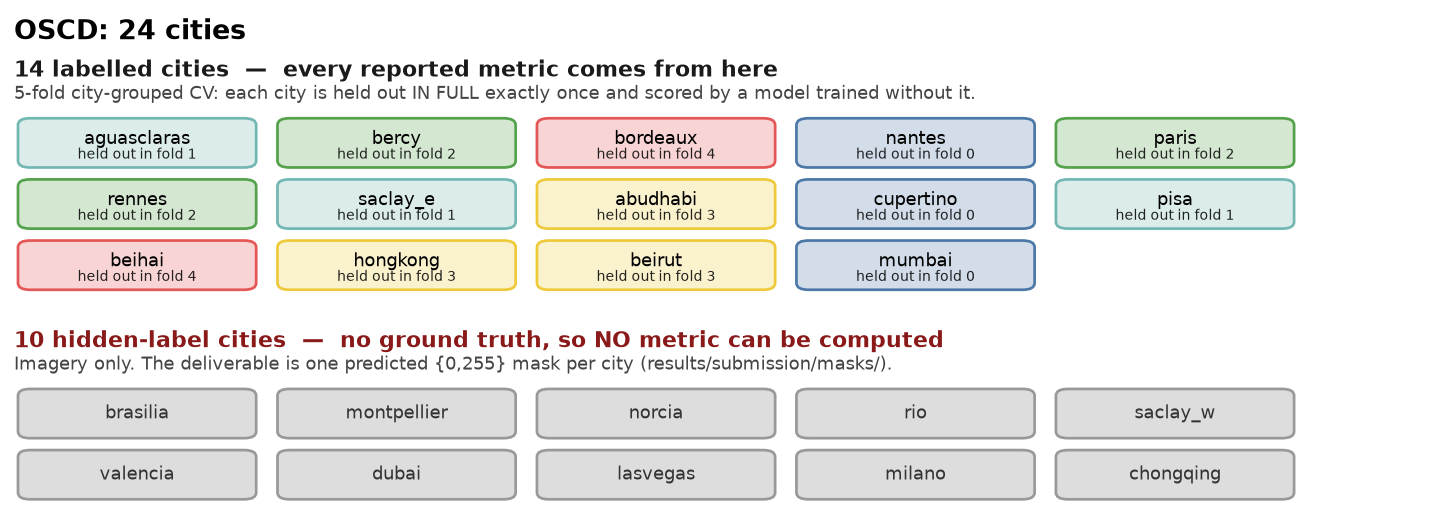
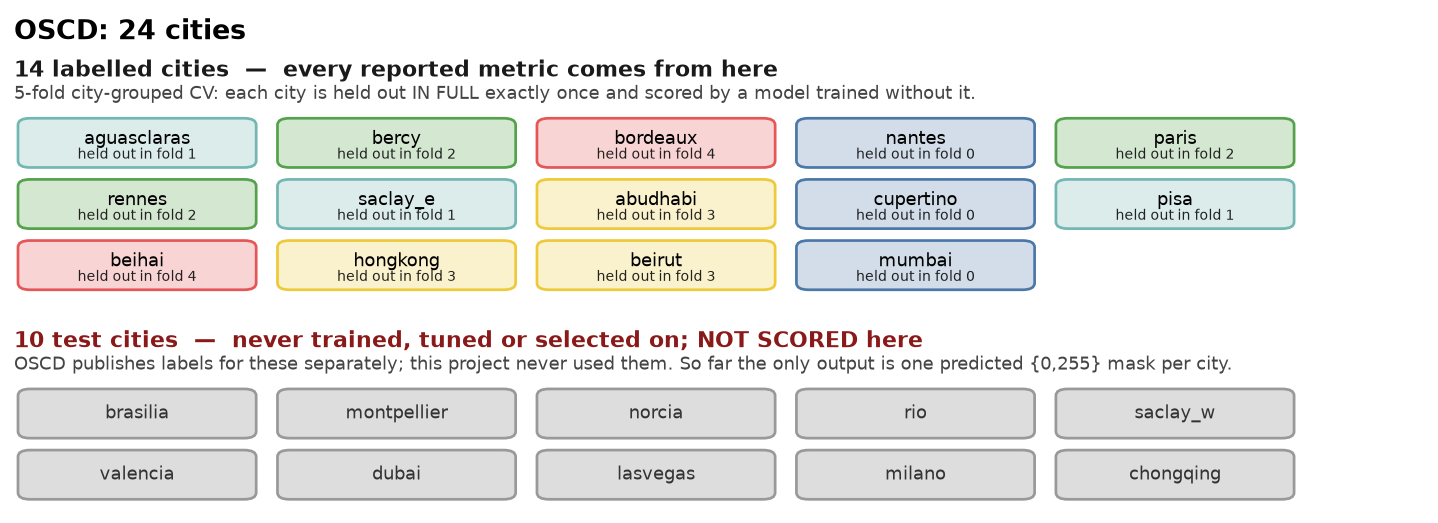
docs: correct the test-label premise — the 10 cities are unscored, not unscorable
The repo asserted throughout that the 10 OSCD test cities have no ground truth.
That is wrong: OSCD distributes the test labels as a separate archive alongside
the train labels (the dataset page offers both; torchgeo's OSCD loader exposes a
test split with masks). This project simply never downloaded them —
preprocess._load_label only ever resolves ".. - Train Labels", and no code path
here references test labels at all.

The distinction matters for how the results read. Nothing is trained, tuned or
selected on the 10 cities, so the 14-city leave-city-out CV remains the correct
basis for choosing between architectures. But a test-set number is missing work,
not an impossibility, and the docs presented it as the latter.

- data/splits.py, submit/final_pipeline.py, train/*.py: comments and docstrings
  restated as "never downloaded/used here" rather than "no ground truth".
- city_split.png: "no ground truth, so NO metric can be computed" ->
  "never trained, tuned or selected on; NOT SCORED here", with the reason.
- hidden_city_evaluation.md: retitled, opens with the correction and the sources,
  and frames scoring the 10 as outstanding work with the download step included.
- README, RESULTS_SUMMARY, QML_POSTER_README: same correction at each place the
  claim appeared.

Changed region(s): [[0.0, 0.6119, 0.8567, 0.7342]]

diff --git a/train/compare_heldout_cities.py b/train/compare_heldout_cities.py
@@ -2,9 +2,9 @@
 train/compare_heldout_cities.py — per-city, model-vs-model comparison on the
 cities each model never saw.
 
-Why this exists: the 10 OSCD test cities carry no ground truth (see
-`data/splits.py`, `TEST_CITIES`: predict-only), so no metric can be computed on
-them locally. The only labelled cross-city evidence is the 5-fold *city-grouped*
+Why this exists: the 10 OSCD test cities have never been scored in this project
+(OSCD publishes their labels separately; they were never downloaded or used
+here), so all cross-city evidence to date is the 5-fold *city-grouped*
 CV over the 14 labelled cities: every city is held out exactly once, and the
 model that scores it was trained without it. That is a leave-city-out
 comparison, not an in-sample one — it answers "which circuit generalizes to an
@@ -109,11 +109,13 @@ def write_report(cells, folds, depths, metric, path):
     A("Generated by [`train/compare_heldout_cities.py`](../train/compare_heldout_cities.py) "
       "from the committed fold results in `results/runs/p3_topology/`.\n")
     A("## What is being compared, and on which cities\n")
-    A("The 10 OSCD **test** cities have no ground truth (`data/splits.py` — "
-      "`TEST_CITIES`, predict-only), so no accuracy number can be computed on them "
-      "here; the deliverable for those is a predicted mask per city. Every metric "
-      "below is on a **held-out city**: 5-fold city-grouped CV over the 14 labelled "
-      "cities, each city held out exactly once and scored by a model trained "
+    A("The 10 OSCD **test** cities have **not been scored** in this project — their "
+      "labels are published separately by OSCD and were never downloaded or used "
+      "here, so the only output for them is a predicted mask per city. Evaluating "
+      "them is outstanding work (see [`hidden_city_evaluation.md`]"
+      "(hidden_city_evaluation.md)). Every metric below is therefore on a "
+      "**held-out city** from the labelled set: 5-fold city-grouped CV over the 14 "
+      "labelled cities, each held out exactly once and scored by a model trained "
       "without it.\n")
     A("The comparison is paired — identical fold assignment, identical "
       "initialisation and identical training patch stream across models, so the "

diff --git a/submit/final_pipeline.py b/submit/final_pipeline.py
@@ -9,16 +9,16 @@ Three stages, runnable separately so nothing here waits on the experiments:
              out-of-fold choice — the threshold never sees the hidden test set.
   train      refit the transforms on ALL 14 labelled cities and train the chosen
              architecture on them with the frozen protocol.
-  predict    run the final model over the 10 hidden-label cities and write the
+  predict    run the final model over the 10 test cities and write the
              deliverable: a pixel-aligned uint8 {0,255} PNG per city, plus the
              probability map per city (needed later for any threshold-free
              metric — see train/score_hidden_cities.py). Masks go to
              results/submission/masks_<kind>_L<depth>/, so running a comparison
              architecture cannot overwrite the frozen submission in masks/.
 
-The 10 test cities have imagery but no labels, so `dcorr13_unlabeled` mirrors
-preprocess.build_dcorr13 while taking the raster shape from the image instead of
-the label. The per-pair median correction is label-free and per-image, so it
+This pipeline never reads test-city labels (OSCD ships them separately and they
+are unused here), so `dcorr13_unlabeled` mirrors preprocess.build_dcorr13 while
+taking the raster shape from the image instead of the label. The per-pair median correction is label-free and per-image, so it
 applies to the test cities exactly as it does in training.
 
 Leakage discipline: tau* comes from out-of-fold predictions only, and is FROZEN
@@ -54,7 +54,7 @@ SWEEP = os.path.join(ROOT, "results", "runs", "p3_topology")
 
 # --------------------------------------------------------------------------- #
 def dcorr13_unlabeled(city, raw_root, band_stats):
-    """|dB^corr|_13 for a city with no ground truth (shape taken from imagery)."""
+    """|dB^corr|_13 without reading any label (shape taken from imagery)."""
     t1 = pre._load_bands(raw_root, city, "imgs_1_rect")
     t2 = pre._load_bands(raw_root, city, "imgs_2_rect")
     H = min(t1.shape[0], t2.shape[0]); W = min(t1.shape[1], t2.shape[1])

diff --git a/train/plot_heldout_comparison.py b/train/plot_heldout_comparison.py
@@ -4,7 +4,7 @@ these numbers on, and is the model comparison fair?"
 
   city_split.png              the 24-city split: 14 labelled cities that every
                               metric comes from (coloured by CV fold), 10
-                              hidden-label cities that can only be predicted.
+                              test cities, which this project has never scored.
   heldout_city_comparison.png M1 vs M2 vs M_ring on each of the 14 held-out
                               cities, plus the paired per-city differences.
 
@@ -81,10 +81,10 @@ def fig_city_split(fold_of, path):
              FOLD_COLORS[f], sub=f"held out in fold {f}")
 
     # --- hidden -------------------------------------------------------------
-    ax.text(0, 1.72, "10 hidden-label cities  —  no ground truth, so NO metric can be computed",
+    ax.text(0, 1.72, "10 test cities  —  never trained, tuned or selected on; NOT SCORED here",
             fontsize=11.5, fontweight="bold", color="#8a1a1a")
-    ax.text(0, 1.42, "Imagery only. The deliverable is one predicted {0,255} mask per city "
-                     "(results/submission/masks/).",
+    ax.text(0, 1.42, "OSCD publishes labels for these separately; this project never used them. "
+                     "So far the only output is one predicted {0,255} mask per city.",
             fontsize=9.2, color="#444")
     for i, c in enumerate(TEST_CITIES):
         r, k = divmod(i, 5)

diff --git a/train/score_hidden_cities.py b/train/score_hidden_cities.py
@@ -1,13 +1,13 @@
 """
-train/score_hidden_cities.py — score the 10 hidden-label OSCD cities, the moment
-their ground truth is available.
+train/score_hidden_cities.py — score the 10 OSCD test cities.
 
-The 10 test cities are predict-only in this repo (`data/splits.py`,
-`TEST_CITIES`): the pipeline writes a mask per city and stops, because no labels
-ship with them. If the organisers release the test labels (or OSCD's separately
-distributed test-label archive is permitted for the challenge), this script turns
-those masks into the same metric table the 14 labelled cities get — per city,
-macro over cities, and pooled over all test pixels.
+They are predict-only in this repo (`data/splits.py`, `TEST_CITIES`): the
+pipeline writes a mask per city and stops. That is a gap in this project, not a
+property of the dataset — OSCD distributes the test labels as a separate archive
+alongside the train labels; they were simply never downloaded here. Point
+`--label_root` at that archive and this script turns the predicted masks into the
+same metric table the 14 labelled cities get — per city, macro over cities, and
+pooled over all test pixels.
 
     python train/score_hidden_cities.py \
         --label_root /path/to/OSCD_test_labels \

diff --git a/data/splits.py b/data/splits.py
@@ -7,7 +7,9 @@ import numpy as np
 TRAIN_CITIES = ["aguasclaras","bercy","bordeaux","nantes","paris","rennes","saclay_e",
                 "abudhabi","cupertino","pisa","beihai","hongkong","beirut","mumbai"]
 
-# 10 hidden-label test cities (used only in final mode, predict-only).
+# 10 OSCD test cities. Their labels are published separately by OSCD but were
+# never downloaded or used in this project, so nothing here is trained, tuned or
+# selected on them; final mode only predicts over them.
 TEST_CITIES = ["brasilia","montpellier","norcia","rio","saclay_w","valencia",
                "dubai","lasvegas","milano","chongqing"]
 

diff --git a/docs/hidden_city_evaluation.md b/docs/hidden_city_evaluation.md
@@ -1,11 +1,23 @@
-# Evaluating on the 10 hidden cities — what is possible, and what it costs
+# Evaluating on the 10 test cities — outstanding work
 
 Raised in review: *"the 5-fold CV is over the training cities only — isn't the
 point of the 10 validation cities to compare the two models on them? The results
 section only reports the 14."*
 
-Both halves of the observation are correct. This note says what the repo can and
-cannot do about it, and what each option needs.
+**The review is right, and the answer is yes: we should evaluate on the 10, and
+have not.** An earlier version of this note claimed their ground truth was
+withheld. That was wrong — **OSCD publishes labels for the test cities**, as a
+separate download alongside the train labels
+([dataset page](https://rcdaudt.github.io/oscd/); `torchgeo`'s OSCD loader
+exposes a `test` split with masks). This project simply never downloaded or used
+them: `data/preprocess.py` only ever resolves
+`train_labels/… - Train Labels`, and no code path in the repo references test
+labels at all.
+
+So the 10 cities are unscored, not unscorable. Nothing in the project is trained,
+tuned or selected on them — which is why the model selection below stands on its
+own — but a test-set number is genuinely missing and this note says what it takes
+to produce one.
 
 ---
 
@@ -13,19 +25,12 @@ cannot do about it, and what each option needs.
 
 ![the 24-city split](../results/p3_matrix/city_split.png)
 
-| | cities | labels | role here |
+| | cities | labels used here | role here |
 |---|---|---|---|
 | train | 14 | yes | transform fitting, training, 5-fold city-grouped CV, threshold choice |
-| test | 10 | **no** | predict-only — the deliverable is one mask per city |
+| test | 10 | **no — never downloaded** | predicted only; not scored, and not used for any decision |
 
-`data/splits.py` is the single source of truth: `TEST_CITIES` is commented
-*"hidden-label test cities (used only in final mode, predict-only)"*, and
-`submit/final_pipeline.py` reaches them through `dcorr13_unlabeled()`, a
-label-free path that takes the raster shape from the imagery because there is no
-mask to take it from.
-
-So no accuracy number for the 10 cities can be produced from what this repo has.
-What exists for them is the deliverable and its sanity check:
+What exists for the 10 cities today is the deliverable and its sanity check:
 
 - 10 uint8 `{0,255}` PNG masks (`results/submission/masks/`)
 - per-city predicted change fraction (`results/submission/predict_m1_L3.json`)
@@ -40,9 +45,10 @@ measurement — it never sees a label.
 The 5-fold CV is **city-grouped**, not a random pixel split: each of the 14
 labelled cities is held out in full exactly once and scored by a model trained
 without it. So every number in the results section is already a *leave-city-out*
-number — the same kind of cross-city generalization test the 10 hidden cities
-would provide, with 14 held-out cities instead of 10, and with matched pairing
-across architectures (same folds, same init, same patch stream).
+number — cross-city generalization measured on 14 held-out cities, with matched
+pairing across architectures (same folds, same init, same patch stream). This is
+the right basis for *choosing* between architectures; it does not replace a
+test-set number for *reporting*.
 
 ![held-out city comparison](../results/p3_matrix/heldout_city_comparison.png)
 
@@ -64,8 +70,10 @@ At L3 (110 params) it reports M1 ahead on macro AP 0.1748 vs 0.1358 (M2) and
 city-to-city spread for a single model is 0.023…0.458, about 20×. The binding
 constraint is which city you test on, not which circuit you use.
 
-## 3. If the test labels become available
+## 3. Scoring the 10 — how
 
+Download the OSCD **test** labels (a separate, small archive from the same
+source as the train labels — masks only, no imagery). Then
 `train/score_hidden_cities.py` produces the same table for the 10 cities:
 
 ```bash
@@ -83,7 +91,7 @@ extent, and writes `results/submission/hidden_city_scores.json` plus
 **τ is frozen.** The default operating point is `tau_final` from
 `results/submission/threshold_m1_L3.json`, chosen out-of-fold before any test
 city was touched; the script has no code path that selects a threshold on test
-pixels.
+pixels. That property is what makes a test number meaningful once we have one.
 
 ### Two granularities, and why it matters
 
@@ -141,7 +149,7 @@ not worth it: depth is already covered by the capacity sweep on the 14 cities.
 ## 5. One discipline point
 
 The submitted model was selected on out-of-fold AP over the 14 labelled cities and
-is frozen. If test-city scores arrive, report them as a final evaluation — do not
-re-pick the architecture, depth or threshold on them. Selecting on the test
+is frozen. When test-city scores are produced, report them as a final evaluation —
+do not re-pick the architecture, depth or threshold on them. Selecting on the test
 cities would turn the only unbiased number in the project into another validation
 number, and the poster's claims are all stated against the CV protocol.

diff --git a/docs/QML_POSTER_README.md b/docs/QML_POSTER_README.md
@@ -31,8 +31,9 @@ and 0.458 on another.
 
 ## 1. Data preprocessing and resampling
 
-**Source.** OSCD / Onera, Sentinel-2 MSI. 24 cities, **14 with labels** (train)
-and 10 hidden (test). 13 bands × 2 dates per city.
+**Source.** OSCD / Onera, Sentinel-2 MSI. 24 cities, 14 train and 10 test. Only
+the 14 train labels were used here; OSCD distributes the test labels separately
+and this project never downloaded them. 13 bands × 2 dates per city.
 
 **Resampling.** We use the dataset's `imgs_*_rect` products, in which every band
 — native 10 m (B02–04, B08), 20 m (B05–07, B8A, B11, B12) and 60 m (B01, B09,
@@ -221,9 +222,10 @@ a held-out validation city exactly once. Never a random pixel split — the EDA
 showed random splits are optimistic (a land-cover feature scored 0.59 under
 random CV and 0.53, i.e. chance, under city-grouped CV).
 
-**Why the 10 test cities are not the validation set.** They have no labels
-(`data/splits.py` — `TEST_CITIES`, predict-only), so they cannot score anything;
-the model comparison has to live on the 14 labelled cities. Because the CV holds
+**Why the model comparison lives on the 14 cities.** The 10 test cities were
+never scored in this project — their labels are published separately by OSCD and
+were not used here, so no number exists for them yet (evaluating them is
+outstanding work). Because the CV holds
 out whole cities, that comparison is still cross-city: each model is scored on
 cities it never trained on, 14 of them, paired across architectures (identical
 folds, initialisation and patch stream). See
@@ -257,13 +259,13 @@ cannot reach p < 0.05 even in principle.
 > **Which cities these numbers are on.** Every metric in this section is over the
 > **14 labelled cities**, each one held out in full exactly once by the
 > city-grouped CV — so they are leave-city-out numbers, not in-sample ones. The
-> other **10 cities carry no ground truth** (`data/splits.py` — `TEST_CITIES`,
-> predict-only), so no accuracy can be computed on them here; their deliverable is
-> a predicted mask per city, plus a threshold-transfer check (§9). Per-city,
+> other **10 cities have not been scored** — OSCD publishes their labels
+> separately and this project never used them, so their only output is a
+> predicted mask per city plus a threshold-transfer check (§9). Per-city,
 > model-vs-model tables are in
 > [`results_heldout_city_comparison.md`](results_heldout_city_comparison.md);
-> what it would take to score the 10 hidden cities if their labels are released
-> is in [`hidden_city_evaluation.md`](hidden_city_evaluation.md).
+> what it would take to score the 10 test cities is in
+> [`hidden_city_evaluation.md`](hidden_city_evaluation.md).
 
 ### 7.1 Architecture × depth (mean fold AP, 5 city-grouped folds)
 

diff --git a/README.md b/README.md
@@ -34,7 +34,7 @@ All analysis is on the 14 labelled **train** cities. It is fully reproduced by
 
 | | |
 |---|---|
-| Cities | 24 (14 train w/ labels, 10 test w/ hidden labels) |
+| Cities | 24 (14 train, 10 test; only the 14 train labels are used here — OSCD ships the test labels separately and this repo never uses them) |
 | Per city | 13 spectral bands × 2 dates (T1, T2), co-registered to 10 m (`imgs_*_rect`) |
 | Image size | variable, 385×241 … 1070×1180 |
 | Labels | `<city>-cm.tif` change mask |
@@ -226,15 +226,16 @@ raw T1/T2 → robust per-band norm → per-image median-corrected |dB|
 - **Which cities the metrics are on**
   ([`docs/hidden_city_evaluation.md`](docs/hidden_city_evaluation.md)): every
   reported number is over the **14 labelled** cities under leave-city-out CV; the
-  10 test cities have no ground truth and are predict-only. Per-city,
+  10 test cities have never been scored here (OSCD ships their labels
+  separately; this repo never uses them). Per-city,
   model-vs-model tables are in
   [`docs/results_heldout_city_comparison.md`](docs/results_heldout_city_comparison.md)
   (regenerate: `python train/compare_heldout_cities.py` for the tables,
   `python train/plot_heldout_comparison.py` for
   [`city_split.png`](results/p3_matrix/city_split.png) and
   [`heldout_city_comparison.png`](results/p3_matrix/heldout_city_comparison.png));
-  scoring the 10 hidden cities if their labels are released is
-  `train/score_hidden_cities.py`.
+  scoring the 10 test cities is `train/score_hidden_cities.py` — outstanding
+  work, see `docs/hidden_city_evaluation.md`.
 - **Model ladder** ([`docs/model_ladder.md`](docs/model_ladder.md)): M0 pixel
   baseline → M1/M2/M3 all 38-param (one factor each) → M4 re-uploading, with
   parameter-matched classical twins and the ablation matrix. Main model M3 (9-to-9

diff --git a/docs/results_heldout_city_comparison.md b/docs/results_heldout_city_comparison.md
@@ -4,7 +4,7 @@ Generated by [`train/compare_heldout_cities.py`](../train/compare_heldout_cities
 
 ## What is being compared, and on which cities
 
-The 10 OSCD **test** cities have no ground truth (`data/splits.py` — `TEST_CITIES`, predict-only), so no accuracy number can be computed on them here; the deliverable for those is a predicted mask per city. Every metric below is on a **held-out city**: 5-fold city-grouped CV over the 14 labelled cities, each city held out exactly once and scored by a model trained without it.
+The 10 OSCD **test** cities have **not been scored** in this project — their labels are published separately by OSCD and were never downloaded or used here, so the only output for them is a predicted mask per city. Evaluating them is outstanding work (see [`hidden_city_evaluation.md`](hidden_city_evaluation.md)). Every metric below is therefore on a **held-out city** from the labelled set: 5-fold city-grouped CV over the 14 labelled cities, each held out exactly once and scored by a model trained without it.
 
 The comparison is paired — identical fold assignment, identical initialisation and identical training patch stream across models, so the circuit is the only difference and per-city differences are matched pairs.
 

diff --git a/docs/RESULTS_SUMMARY.md b/docs/RESULTS_SUMMARY.md
@@ -5,8 +5,10 @@ Plain-language summary of the quantum side. Numbers come from one harness
 [`../results/p3_matrix/matrix.csv`](../results/p3_matrix/matrix.csv).
 
 **All metrics below are over the 14 labelled cities, each held out in full
-exactly once.** The 10 OSCD test cities have no ground truth, so nothing can be
-scored on them here — they get predicted masks only (§5). Per-city model-vs-model
+exactly once.** The 10 OSCD test cities have **not been evaluated** — OSCD
+publishes their labels separately and this project never used them, so the only
+output for those cities is a predicted mask (§5). Scoring them is outstanding
+work. Per-city model-vs-model
 tables: [`results_heldout_city_comparison.md`](results_heldout_city_comparison.md).
 What scoring the 10 would require: [`hidden_city_evaluation.md`](hidden_city_evaluation.md).
 
